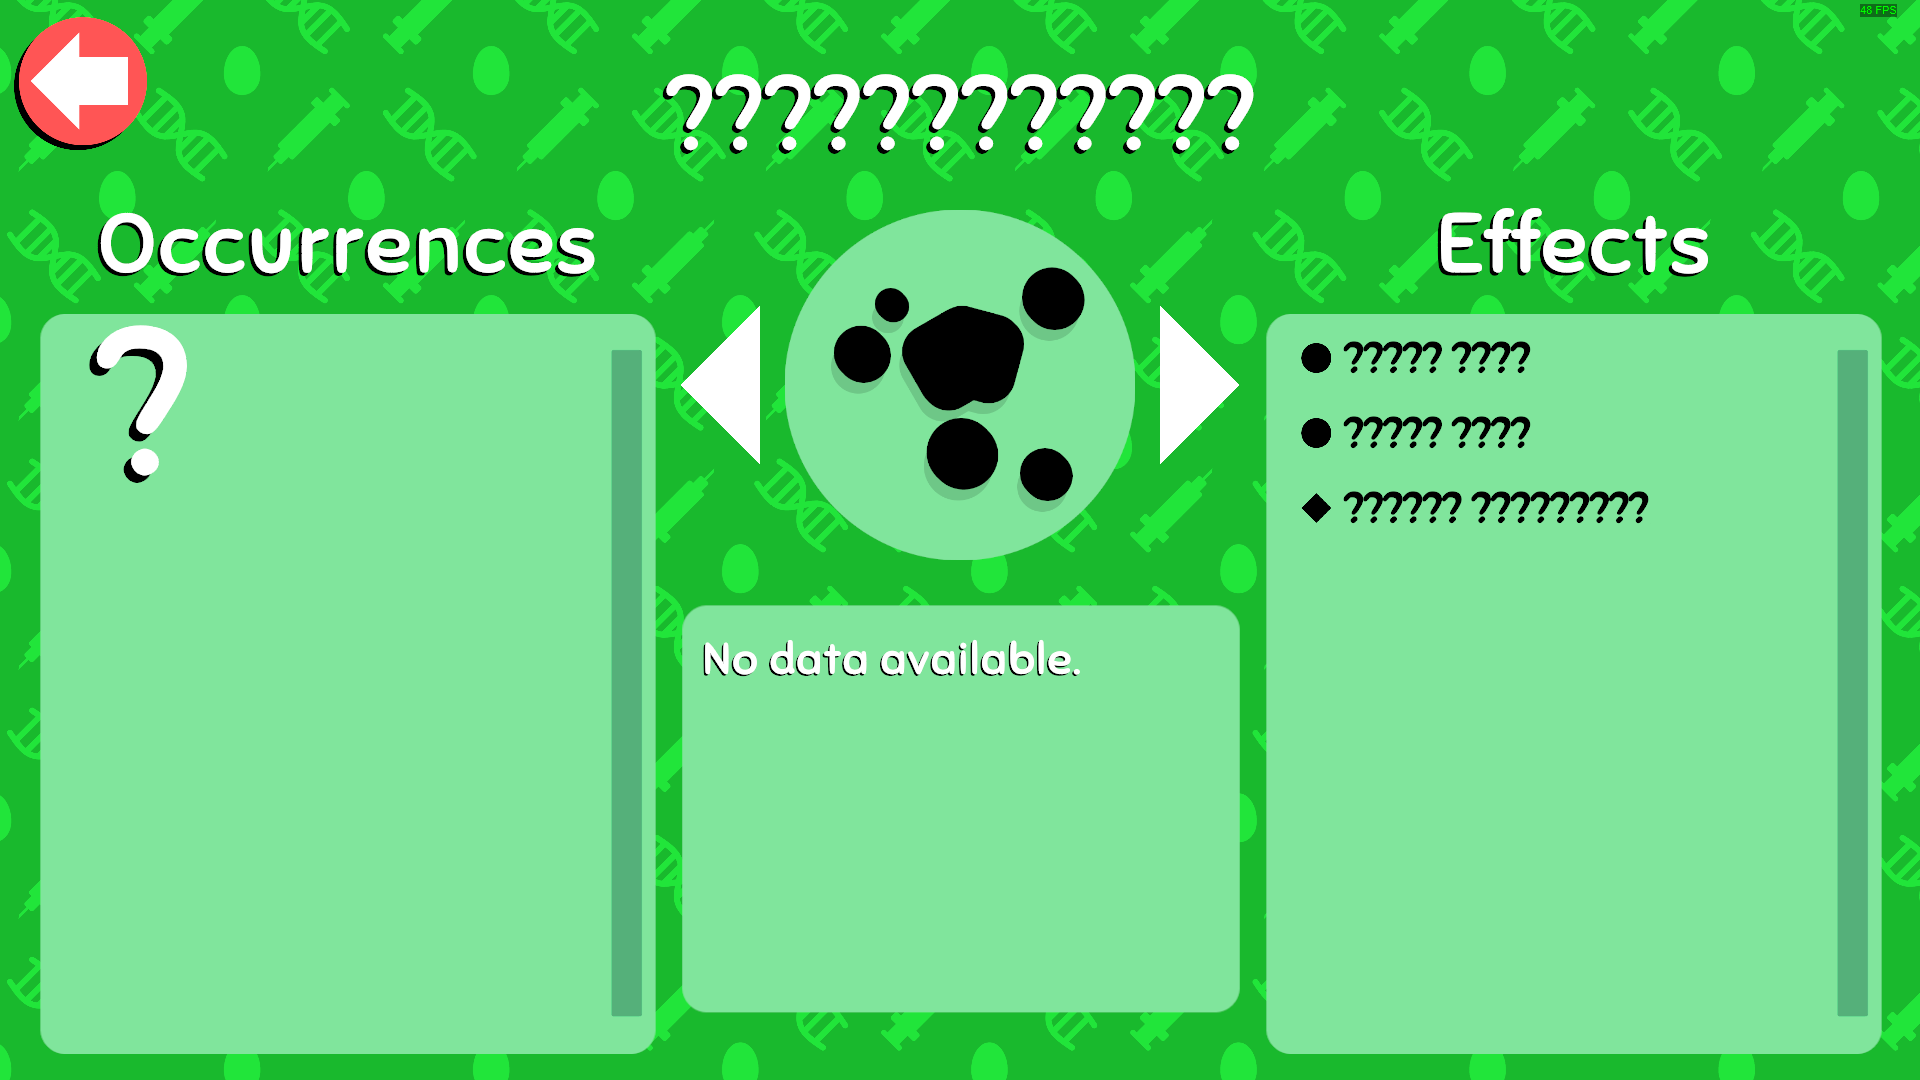
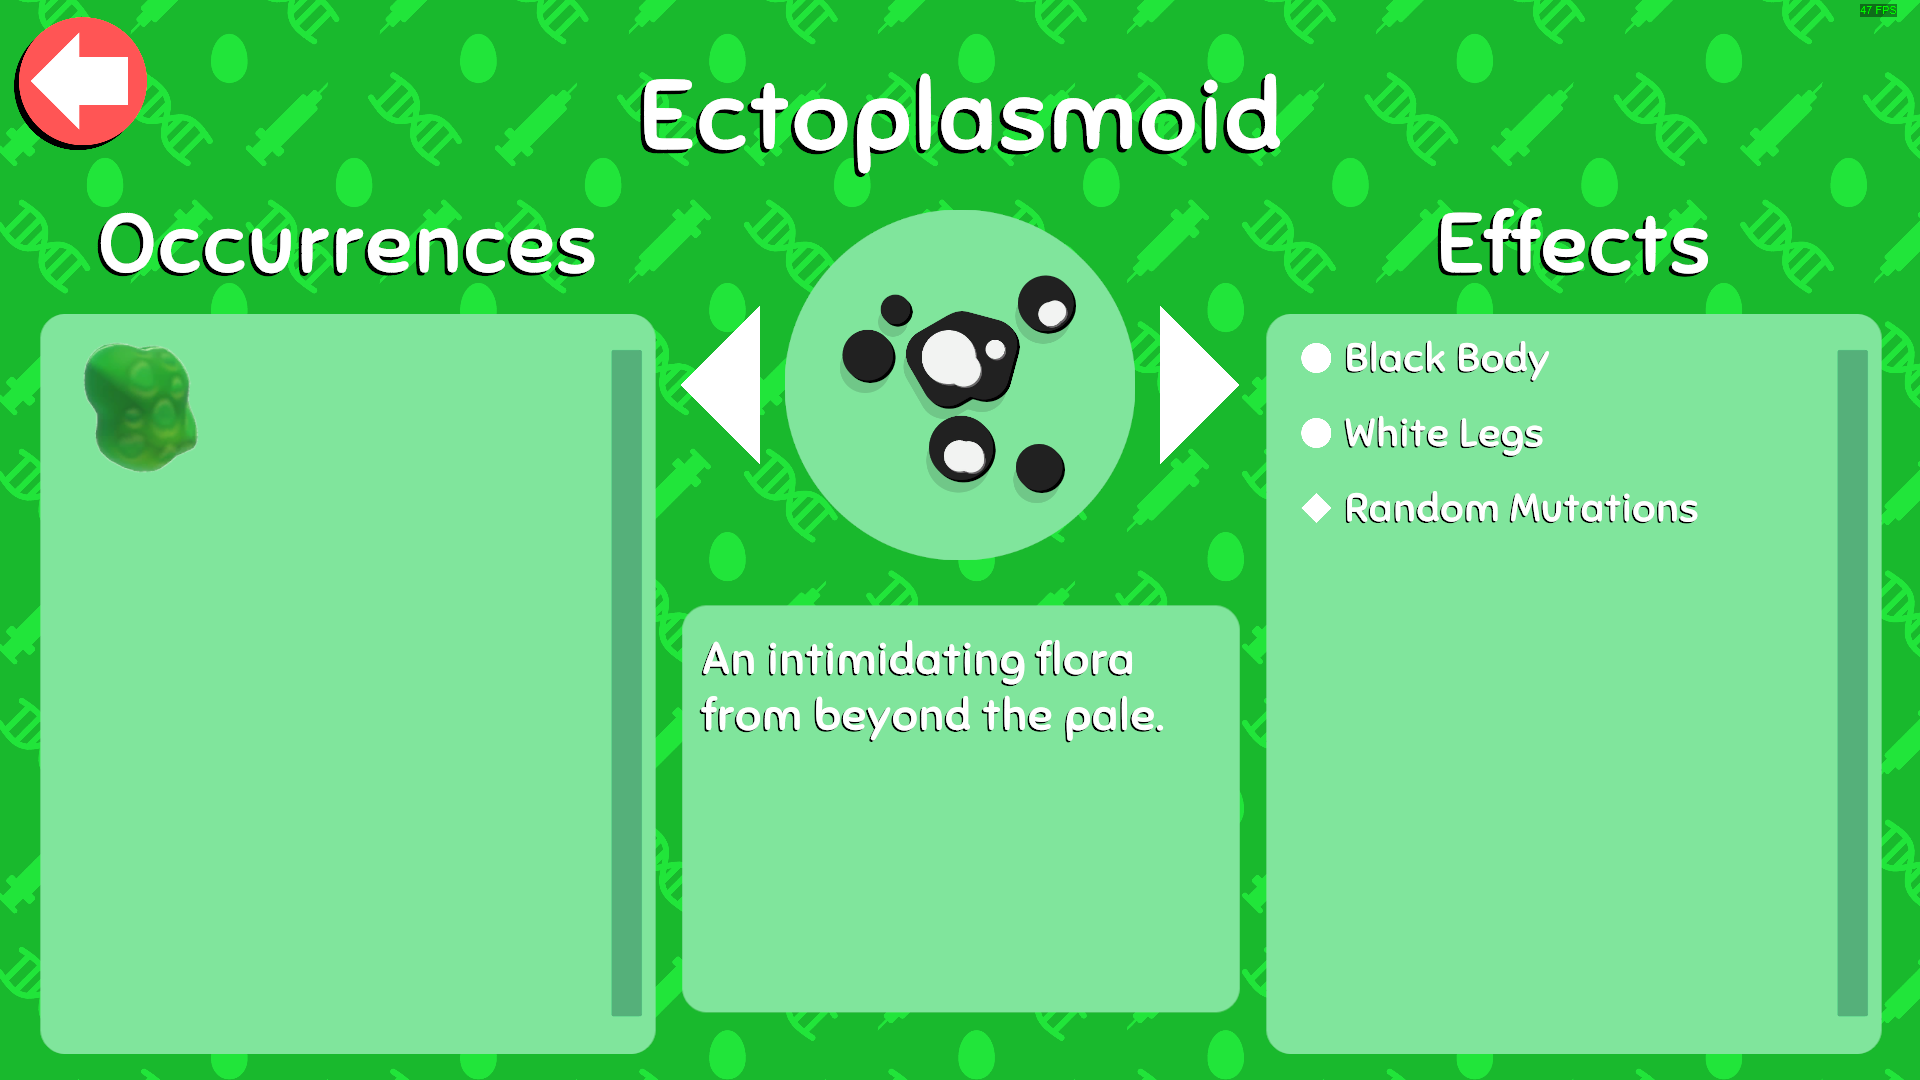
added ectoplasm

diff --git a/src/food.ts b/src/food.ts
@@ -1,6 +1,7 @@
 export interface Food {
   name: string;
   image: string;
+  description?: string;
   source?: string;
 }
 
@@ -71,6 +72,8 @@ export const coconut: Food = {
 export const crackedCore: Food = {
   name: "Cracked Core",
   image: "cracked-core",
+  description:
+    "A dog's core that's been cracked open, revealing a gooey center.",
 };
 export const cutFruit: Food = {
   name: "Cut Fruit",
@@ -91,18 +94,22 @@ export const deviledEgg: Food = {
 export const dirtClump: Food = {
   name: "Dirt Clump",
   image: "dirt-clump",
+  description: "A clump of dirt. Neat!",
 };
 export const dogBody: Food = {
   name: "Dog Body",
   image: "dog-body",
+  description: "Looks like a big piece of candy.",
 };
 export const dogHead: Food = {
   name: "Dog Head",
   image: "dog-head",
+  description: "A lone head. Useless without the rest of the dog.",
 };
 export const dogLeg: Food = {
   name: "Dog Leg",
   image: "dog-leg",
+  description: "A dog's unattached limb.",
 };
 export const dogTail: Food = {
   name: "Dog Tail",
@@ -116,9 +123,15 @@ export const doughnut: Food = {
   name: "Doughnut",
   image: "doughnut",
 };
+export const ectoplasm: Food = {
+  name: "Ectoplasm",
+  image: "ectoplasm",
+  description: "A ghost did this, but I'm not sure how.",
+};
 export const emptyCocoon: Food = {
   name: "Empty Cocoon",
   image: "empty-cocoon",
+  description: "A dog was inside of this.",
 };
 export const fishPellet: Food = {
   name: "Fish Pellet",
@@ -187,6 +200,7 @@ export const moonCheese: Food = {
 export const nutritionalPellet: Food = {
   name: "Nutritional Pellet",
   image: "nutritional-pellet",
+  description: "Dogs love to munch on this nutritional pellet.",
 };
 export const onionRing: Food = {
   name: "Onion Ring",
@@ -203,6 +217,7 @@ export const pizzaBagel: Food = {
 export const poop: Food = {
   name: "Poop",
   image: "poop",
+  description: "What else do you want to know?",
 };
 export const pumpkinPie: Food = {
   name: "Pumpkin Pie",

diff --git a/src/flora.ts b/src/flora.ts
@@ -195,12 +195,12 @@ export const ectobacter: Flora = {
   rarities: [triangle, circle, circle],
 };
 
-export const flora19: Flora = {
-  name: "????????????",
+export const ectoplasmoid: Flora = {
+  name: "Ectoplasmoid",
   image: "flora_1_9",
   description: "No data available.",
-  foods: [food.unknown],
-  effects: [effect.unknown, effect.unknown],
+  foods: [food.ectoplasm],
+  effects: [effect.blackBody, effect.whiteLegs, effect.randomMutations],
   rarities: [circle, circle, diamond],
 };
 
@@ -504,7 +504,7 @@ export const floras: Flora[] = [
   dirt,
   dropilia,
   ectobacter,
-  flora19,
+  ectoplasmoid,
   enteria,
   feruli,
   flora22,

diff --git a/src/effect.ts b/src/effect.ts
@@ -66,6 +66,7 @@ export const blueNoseEars: Effect = { name: "Blue Nose/Ears" };
 export const lightGreenLegs: Effect = { name: "Light Green Legs" };
 export const greenBody: Effect = { name: "Green Body" };
 export const darkGreenPattern: Effect = { name: "Dark Green Pattern" };
+export const blackBody: Effect = { name: "Black Body" };
 
 export const effects: Effect[] = [
   unknown,

diff --git a/src/images.py b/src/images.py
@@ -110,6 +110,7 @@ def crop_grid_from_folder(source_folder, output_folder, low_variance_output_fold
         "flora-1-7-food-0-0": "ham-slider",
         "flora-1-7-food-0-1": "moon-cheese",
         "flora-1-8-food-0-0": "dehydrated-treat",
+        "flora-1-9-food-0-0": "ectoplasm",
         "flora-2-0-food-0-1": "fruit-cake",
         "flora-2-1-food-0-0": "candy-cane",
         "flora-2-4-food-0-0": "birthday-cake-slice",
